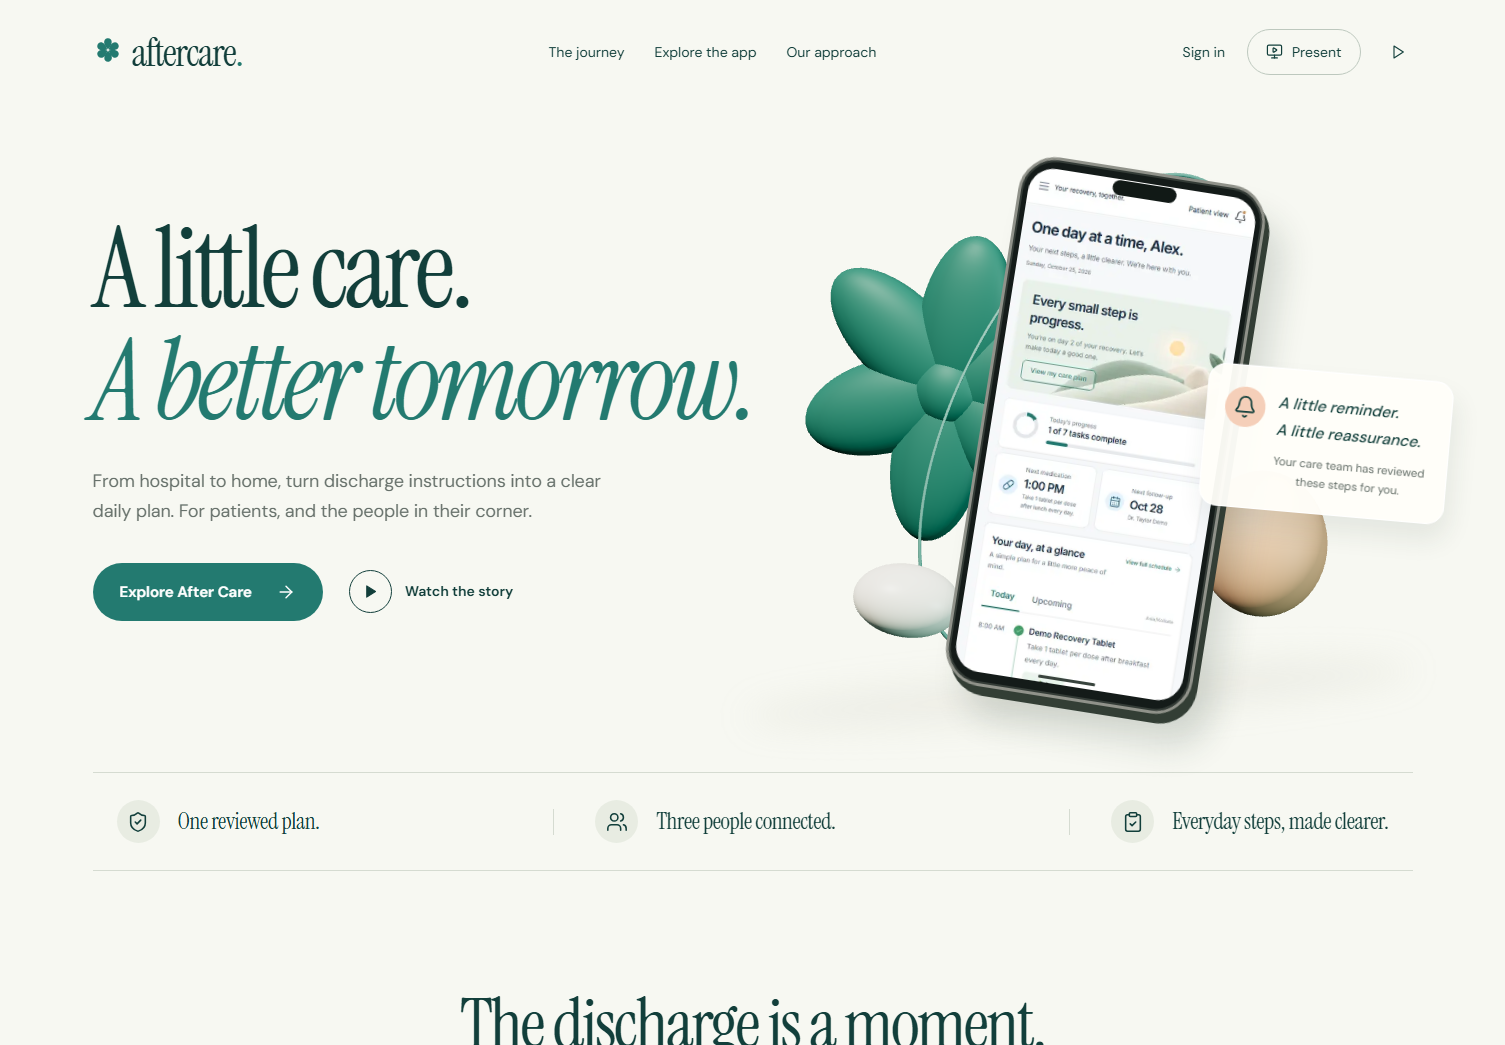
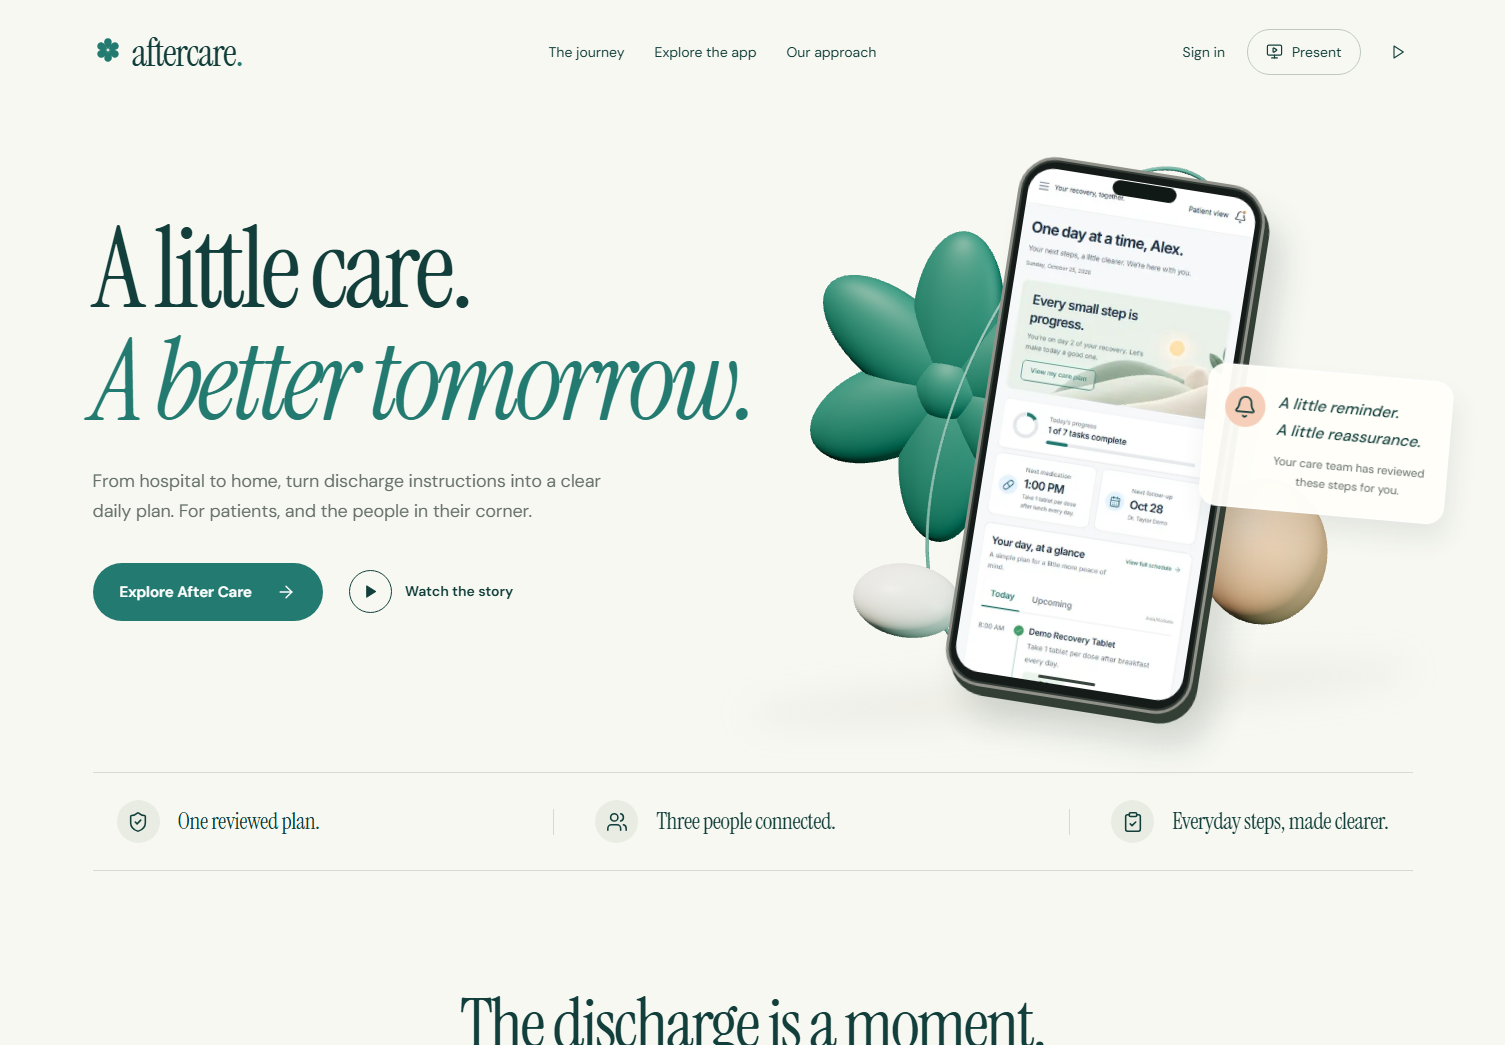
fix: stabilize presentation media and refresh deployed screenshots

diff --git a/tests/landing.spec.ts b/tests/landing.spec.ts
@@ -97,6 +97,12 @@ test("presentation advances by keyboard and controls, exposes notes, and links t
   await expect(
     page.getByRole("group", { name: "Slide 2 of 6", exact: true }),
   ).toBeVisible();
+  const reviewImage = page.getByAltText(
+    "Nurse review screen with an AI-organized draft and a clarification",
+  );
+  await expect
+    .poll(() => reviewImage.evaluate((image: HTMLImageElement) => image.complete && image.naturalWidth > 0))
+    .toBe(true);
   await page.getByRole("button", { name: "Show speaker notes" }).click();
   await expect(
     page.getByRole("complementary", { name: "Speaker notes" }),

diff --git a/src/components/marketing/presentation.tsx b/src/components/marketing/presentation.tsx
@@ -288,6 +288,8 @@ export function Presentation() {
               <div className="deck-review">
                 <Image
                   src={productScreens.review}
+                unoptimized
+                loading="eager"
                   alt="Nurse review screen with an AI-organized draft and a clarification"
                   width={800}
                   height={952}

diff --git a/src/app/marketing.css b/src/app/marketing.css
@@ -2289,6 +2289,9 @@ html:has(.marketing) {
   top: 8px;
 }
 .deck-review {
+  width: 100%;
+  aspect-ratio: 800 / 952;
+  background: #e5ebdf;
   max-width: 450px;
   max-height: 575px;
   overflow: hidden;

diff --git a/docs/design/landing-design.md b/docs/design/landing-design.md
@@ -51,5 +51,6 @@ Initial browser validation passed at 360, 390, 768, 1024, 1280, and 1440 pixels 
 | Asset treatment | Actual fictional app screens replace generated placeholder UI. HTML phone/browser frames provide depth without rasterizing controls. |
 | Responsive behavior | Stacked editorial layout and scrollable screen gallery, no horizontal page overflow, visible mobile motion control. Fixed a missing space when a desktop line break collapses on phones. |
 | Interactions | Role tabs, arrow-key tab selection, native screenshot dialog, motion toggle, menu, and six-scene keyboard deck pass. Controls wait for hydration, avoiding lost early taps. |
+| Presentation media loading | The nurse-review image has a stable aspect-ratio frame and eager original-image loading, preventing the slide from collapsing while its image arrives. The browser regression checks image completion. |
 
 Browser/IAB runtime was unavailable; verification used the project's Playwright Chromium runtime. Screenshot evidence is in `docs/screenshots/landing-*.png` and `presentation-*.png`. WebGL was verified with a rendered canvas, with static fallback and reduced-motion paths also checked. No material mismatch remains in the chosen implementation; the true 3D scene, real product screenshots, and omitted unrequested photograph are the intentional differences recorded above.
